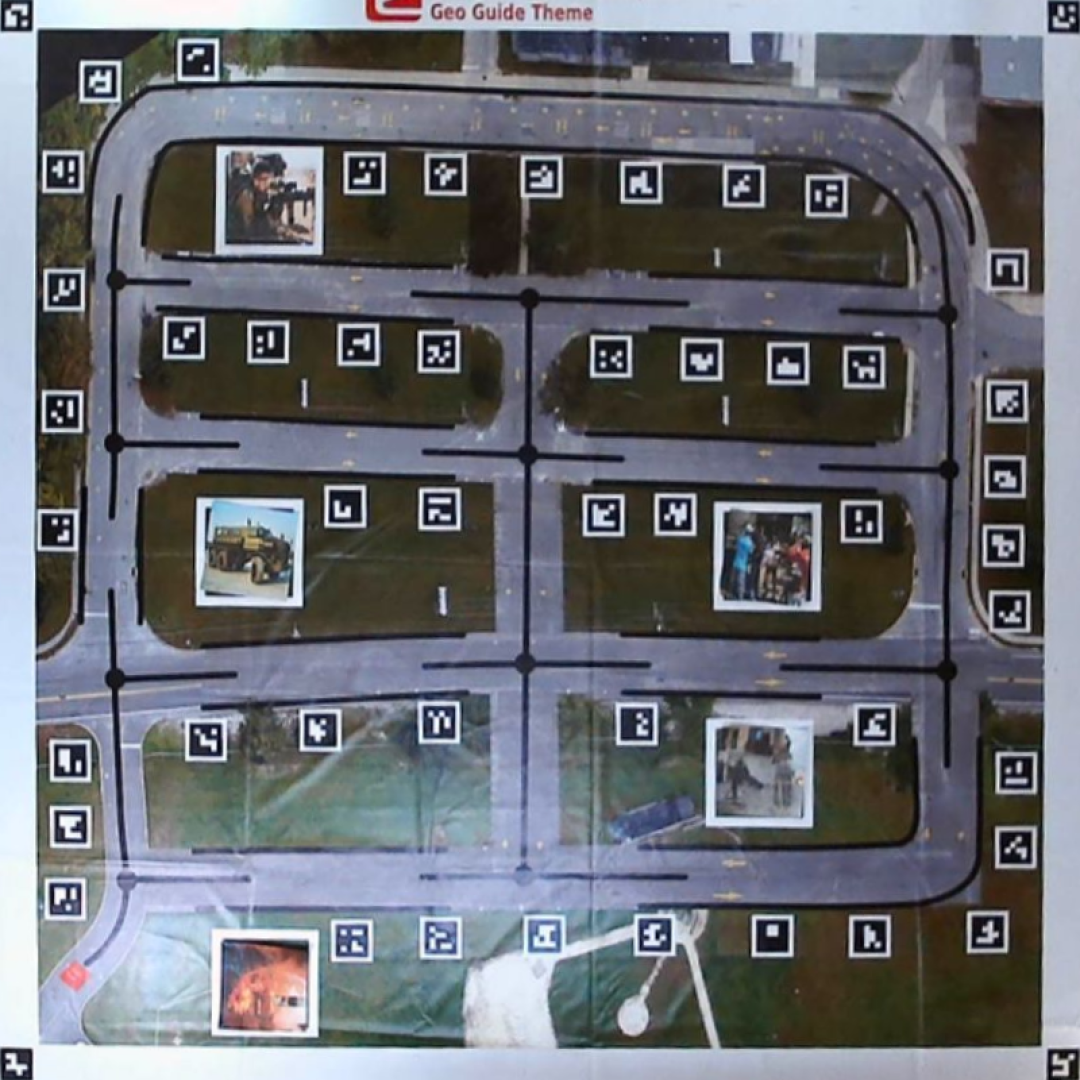
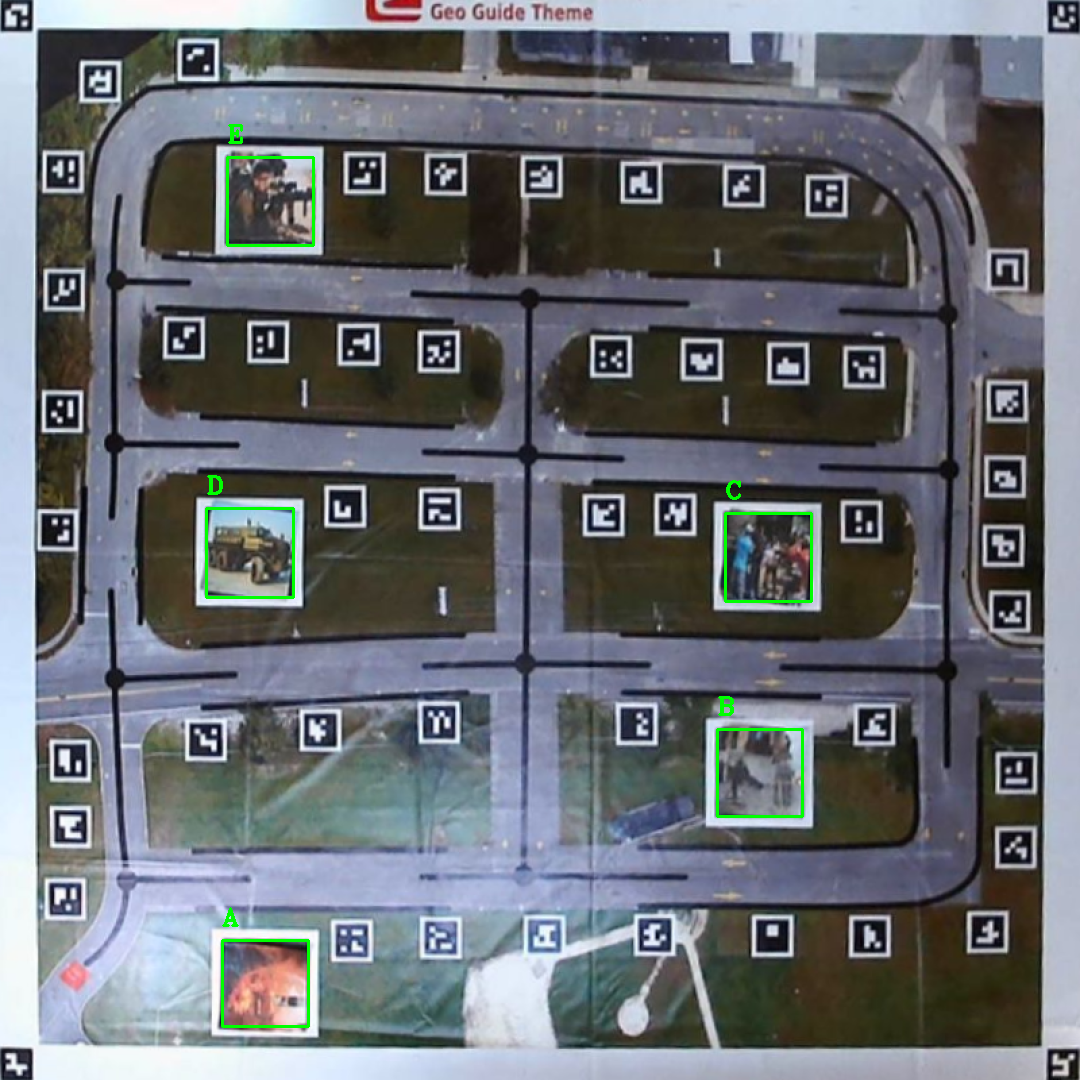
fixed aruco and sharpening

diff --git a/Task_4/Task_4A/task_4a.py b/Task_4/Task_4A/task_4a.py
@@ -122,7 +122,7 @@ def transform_frame(frame):
     pt_A, pt_B, pt_C, pt_D = get_points_from_aruco(frame)
 
     if DEBUG:
-        print(f"{pt_A=}\n\n{pt_B=}\n\n{pt_C=}\n\n{pt_D=}")
+        print(f"[DEBUG]\n{pt_A=}\n{pt_B=}\n{pt_C=}\n{pt_D=}\n[DEBUG END]")
 
     width_AD = np.sqrt(((pt_A[0] - pt_D[0]) ** 2) + ((pt_A[1] - pt_D[1]) ** 2))
     width_BC = np.sqrt(((pt_B[0] - pt_C[0]) ** 2) + ((pt_B[1] - pt_C[1]) ** 2))
@@ -156,6 +156,10 @@ def increase_brightness(img, value=100):
 
     return img
 
+def unsharp_mask(image, kernel_size=(5, 5), sigma=1.0, amount=1.0, threshold=0):
+    gaussian_3 = cv2.GaussianBlur(image, (0, 0), 2.0)
+    return cv2.addWeighted(image, 2.0, gaussian_3, -1.0, 0)
+
 
 def get_points_from_aruco(frame):
     (
@@ -171,7 +175,7 @@ def get_points_from_aruco(frame):
             continue
 
         if DEBUG:
-            print(f"{markerID=}\n")
+            print(f"[DEBUG] {markerID=}")
 
         corners = markerCorner.reshape((4, 2))
         (topLeft, topRight, bottomRight, bottomLeft) = corners
@@ -202,12 +206,12 @@ def get_aruco_data(frame):
 
 
 def get_pts_from_frame(frame, s):
-    S = 937
-    Apts = (np.array([[811 / S, 887 / S], [194 / S, 269 / S]]) * s).astype(int)
-    Bpts = (np.array([[628 / S, 705 / S], [620 / S, 695 / S]]) * s).astype(int)
-    Cpts = (np.array([[444 / S, 519 / S], [628 / S, 701 / S]]) * s).astype(int)
-    Dpts = (np.array([[440 / S, 516 / S], [183 / S, 260 / S]]) * s).astype(int)
-    Epts = (np.array([[136 / S, 212 / S], [200 / S, 276 / S]]) * s).astype(int)
+    S = 1080
+    Apts = (np.array([[940 / S, 1026 / S], [222 / S, 308 / S]]) * s).astype(int)
+    Bpts = (np.array([[729 / S, 816 / S], [717 / S, 802 / S]]) * s).astype(int)
+    Cpts = (np.array([[513 / S, 601 / S], [725 / S, 811 / S]]) * s).astype(int)
+    Dpts = (np.array([[509 / S, 597 / S], [206 / S, 293 / S]]) * s).astype(int)
+    Epts = (np.array([[157 / S, 245 / S], [227 / S, 313 / S]]) * s).astype(int)
 
     return (Apts, Bpts, Cpts, Dpts, Epts)
 
@@ -217,6 +221,7 @@ def get_event_images(frame, pts):
     events = []
     for p, f in zip(pts, filenames):
         event = frame[p[0, 0] : p[0, 1], p[1, 0] : p[1, 1]]
+        event = unsharp_mask(event)
         cv2.imwrite(f, event)
         events.append(event)
     return events
@@ -291,8 +296,8 @@ def task_4a_return():
     if len(sys.argv) > 1:
         if "aruco-only" in sys.argv:
             frame, pts, events = get_events(frame)
+            frame = add_rects_labels(frame, pts, "ABCDE")
             cv2.imwrite("frame.png", frame)
-            frame = add_rects_labels(frame, pts, ["placeholder"]*5)
             cv2.imshow("frame", frame)
             cv2.waitKey(0)
         elif "return_frame" in sys.argv:
